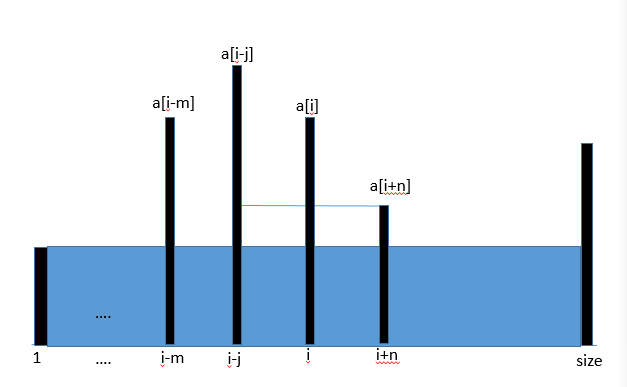
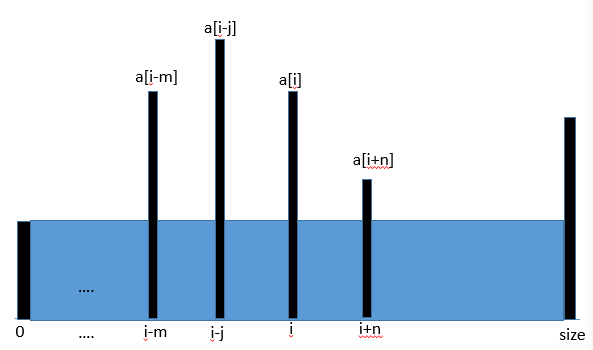
add two pointer

Changed region(s): [[0.0304, 0.0571, 1.0, 0.9714], [0.1518, 0.8, 0.1821, 0.8286]]

diff --git a/two_pointer.md b/two_pointer.md
@@ -145,9 +145,15 @@ public:
 
 `area = max(a[i + n], a[i - j]) * (i + n - (i - j))`  
 
-将上式中的`max(a[i + n], a[i - j])`看做 w, `(i + n) - (i - j)`看做h，上式可以简化为即 `area = w * h`。固定 h，w 越大面积越大，固定 w，h 越大面积越大。因此可以选取起始和结束两个位置作为最大 w，h选择其中较小者，计算面积，然后逐步h较小者的指针，最后求得最大面积。
+![](https://raw.githubusercontent.com/lazybing/leetcode/master/img/leetcode11_1.png)
 
-选取数组的起始和末尾元素作为首尾双指针的起始位置，计算两个指针可容纳的储水面积，之后移动数值较小的指针向中间靠拢，重新计算两个指针可容纳的储水面积并与之前的最大面积做比较，以此类推，直至两个指针相遇位置，即可得最大面积。
+
+选取数组的开始和末尾元素作为首尾双指针的起始位置，计算两个指针可容纳的储水面积，之后移动数值较小的指针向中间靠拢，重新计算两个指针可容纳的储水面积并与之前的最大面积做比较，以此类推，直至两个指针相遇位置，即可得最大面积。  
+
+下面给出这种计算和合理性说明。选取第一个和最后一个元素时，量元素的最大储水能力为 `area = max(a[0], a[size]) * (size)`.假设a[0]是较小者，则a[0]与其他任一元素的储水能力不可能超过 area，因为`max(a[0], a[i]) <= a[0]`，而`i < size`，所以`max(a[0], a[i]) * size <  max(a[0], a[size]) * (size)`.
+
+
+![](https://raw.githubusercontent.com/lazybing/leetcode/master/img/leetcode11_2.png)
 
 ```
 class Solution {
